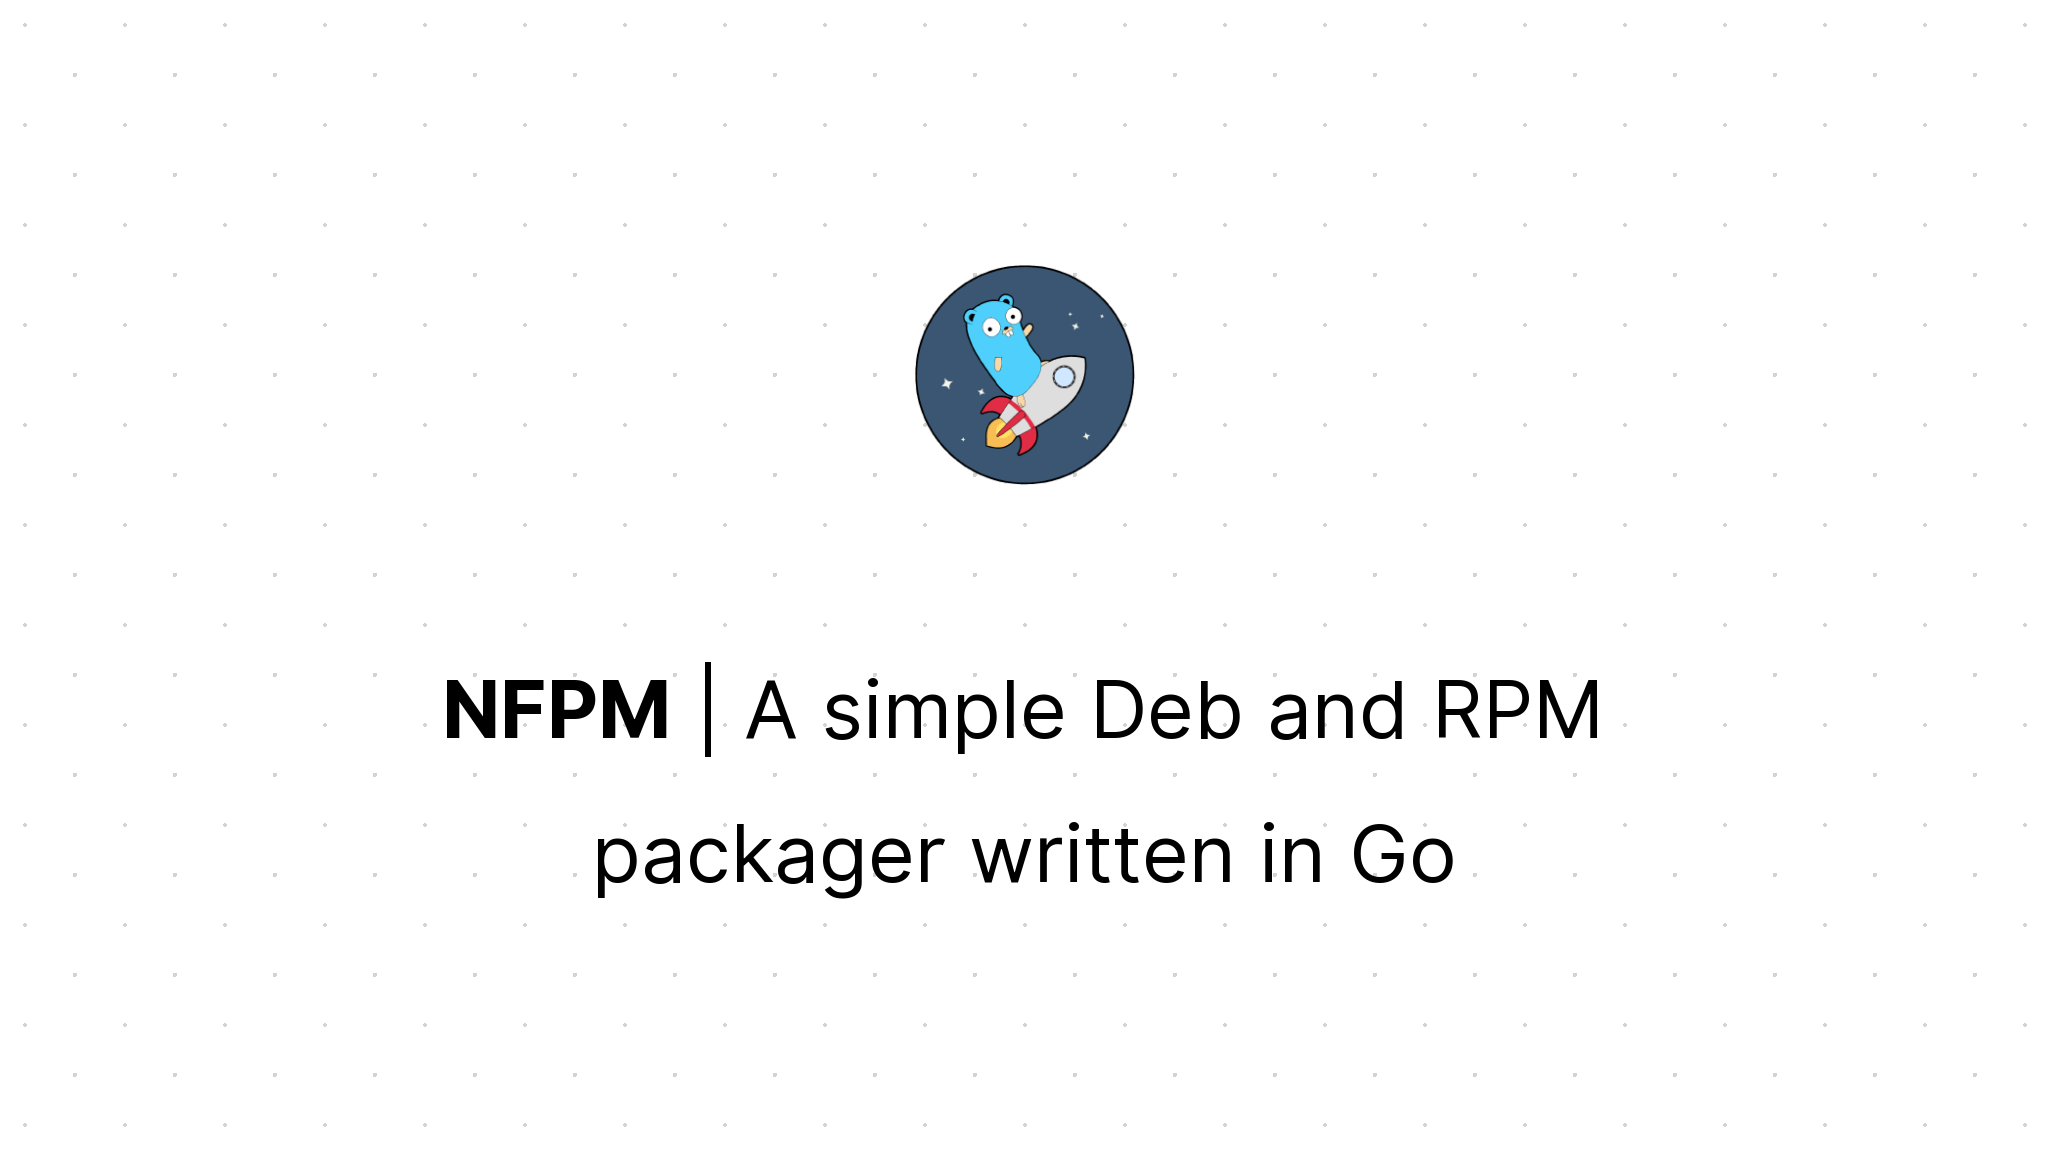
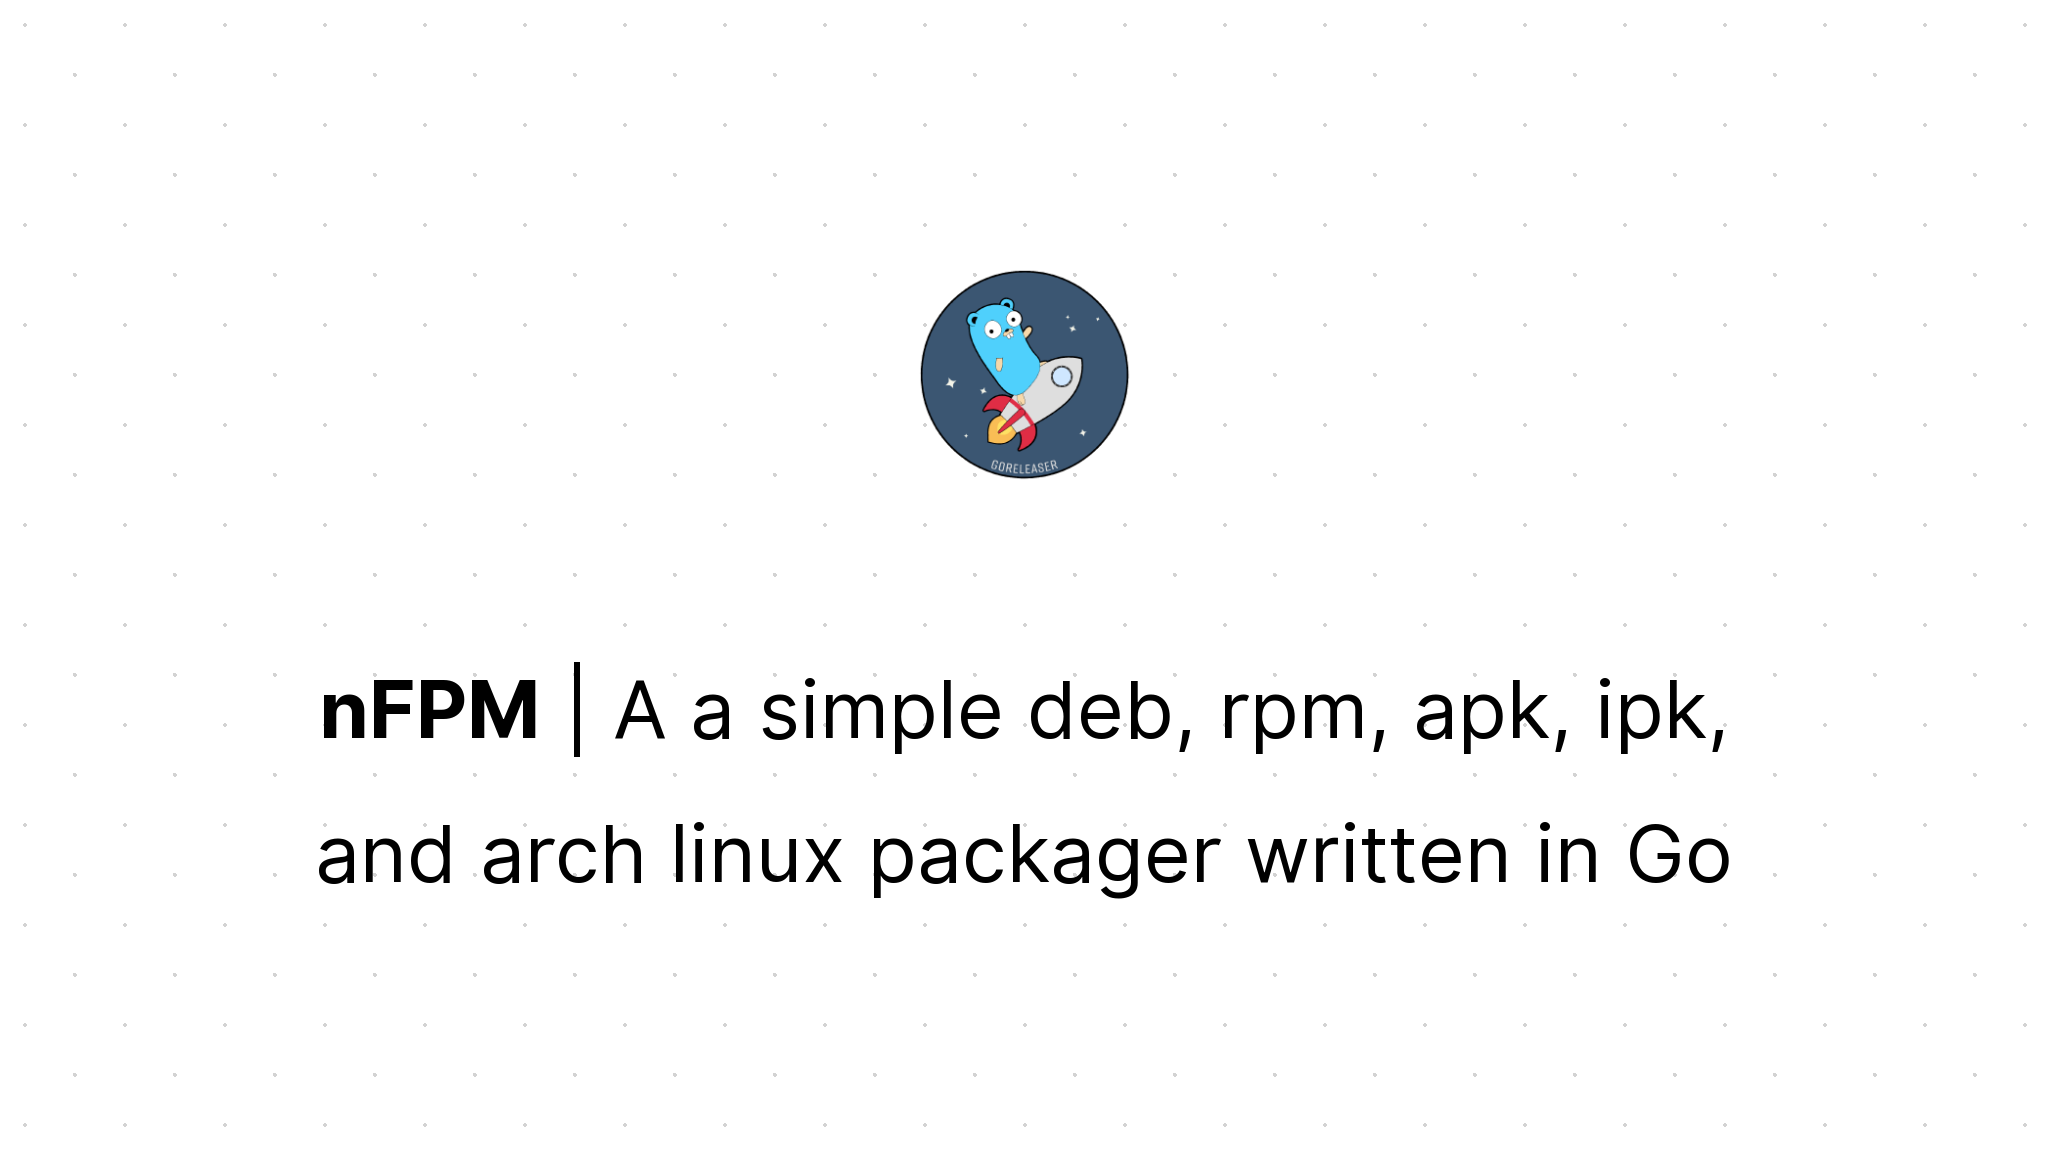
wip

Changed region(s): [[0.1562, 0.5846, 0.8438, 0.6462], [0.1562, 0.7077, 0.8438, 0.7692], [0.4375, 0.2154, 0.5625, 0.4308]]

diff --git a/www/layouts/_partials/custom/head-end.html b/www/layouts/_partials/custom/head-end.html
@@ -1,0 +1,8 @@
+<meta
+	property="og:image"
+	content="https://nfpm.goreleaser.com/images/card.png"
+/>
+<meta
+	name="twitter:image"
+	content="https://nfpm.goreleaser.com/images/card.png"
+/>

diff --git a/www/content/_index.md b/www/content/_index.md
@@ -3,7 +3,6 @@ title: nFPM
 layout: hextra-home
 ---
 
-
 <div class="hx:mt-6 hx:mb-6">
 {{< hextra/hero-headline >}}
 <div class="hx-flex hx-justify-center hx-mb-12">
@@ -14,7 +13,7 @@ layout: hextra-home
 
 <div class="hx:mb-12">
 {{< hextra/hero-subtitle >}}
-  A zero dependencies, simple deb, rpm, apk, ipk, and arch linux packager written in Go.
+  A simple simple deb, rpm, apk, ipk, and arch linux packager written in Go.
 {{< /hextra/hero-subtitle >}}
 </div>
 
@@ -22,31 +21,37 @@ layout: hextra-home
 {{< hextra/hero-button text="Get Started" link="docs/usage" >}}
 </div>
 
-<div class="hx:mt-6"></div>
-
+<div class="hx:mt-6">
 {{< hextra/feature-grid >}}
   {{< hextra/feature-card
     title="No Runtime Dependencies"
     subtitle="No Ruby, no tar, no external dependencies. Just a single binary."
+    icon="paper-airplane"
   >}}
   {{< hextra/feature-card
     title="Multiple Formats"
     subtitle="Create deb, rpm, apk, ipk, and arch linux packages."
+    icon="folder-add"
   >}}
   {{< hextra/feature-card
     title="Simple Configuration"
     subtitle="Define your package with a simple YAML configuration file."
+    icon="code"
   >}}
   {{< hextra/feature-card
     title="Cross Platform"
     subtitle="Build packages on any platform that Go supports."
+    icon="globe"
   >}}
   {{< hextra/feature-card
     title="Library & Binary"
     subtitle="Use as a standalone binary or integrate as a Go library."
+    icon="lock-open"
   >}}
   {{< hextra/feature-card
     title="Fast & Lightweight"
     subtitle="Written in Go for speed and efficiency."
+    icon="lightning-bolt"
   >}}
 {{< /hextra/feature-grid >}}
+</div>

diff --git a/www/content/docs/usage.md b/www/content/docs/usage.md
@@ -14,12 +14,14 @@ nFPM can be used both as a command line tool or as a Go library.
 Choose your preferred installation method:
 
 **Using Homebrew (recommended):**
-```bash
+
+```sh
 brew install goreleaser/tap/nfpm
 ```
 
 **Using Go:**
-```bash
+
+```sh
 go install github.com/goreleaser/nfpm/v2/cmd/nfpm@latest
 ```
 
@@ -29,7 +31,7 @@ go install github.com/goreleaser/nfpm/v2/cmd/nfpm@latest
 
 Use [`nfpm init`](/docs/cmd/nfpm_init) to create a sample configuration:
 
-```bash
+```sh
 nfpm init
 ```
 
@@ -39,7 +41,7 @@ This creates a `nfpm.yaml` file with a commented example configuration.
 
 Use [`nfpm package`](/docs/cmd/nfpm_package) to create your packages:
 
-```bash
+```sh
 # Build specific formats
 nfpm pkg --packager deb --target /tmp/
 nfpm pkg --packager rpm --target /tmp/

diff --git a/www/content/docs/configuration.md b/www/content/docs/configuration.md
@@ -501,7 +501,14 @@ nFPM also has a [jsonschema][] file which you can use to have better editor
 support:
 
 ```
-https://nfpm.goreleaser.com/static/schema.json
+https://nfpm.goreleaser.com/schema.json
+```
+
+You can also add it to your `nfpm.yaml` file if your editor don't automatically
+pick it up:
+
+```yaml
+# yaml-language-server: $schema=https://nfpm.goreleaser.com/schema.json
 ```
 
 You can also generate it for your specific version using the
